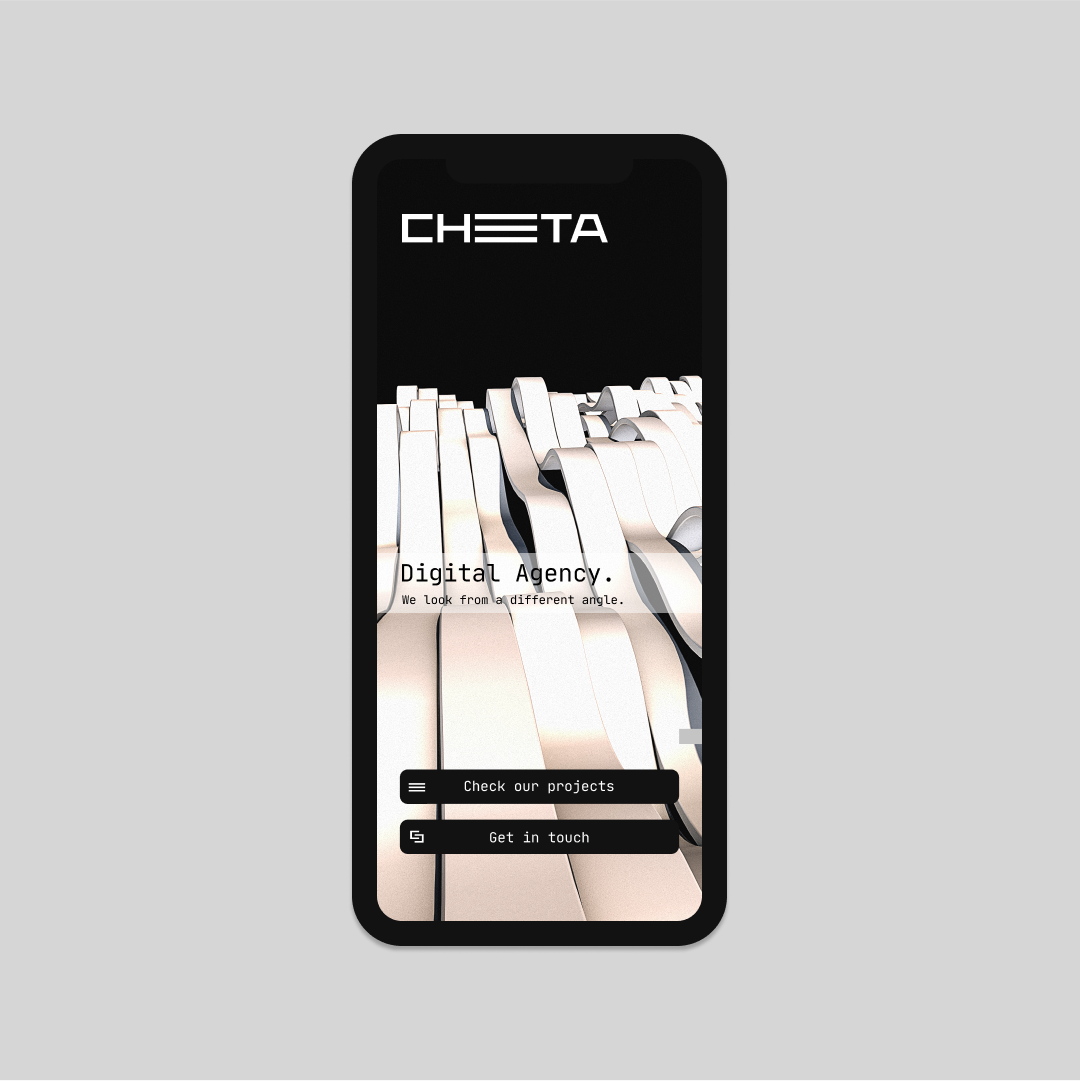
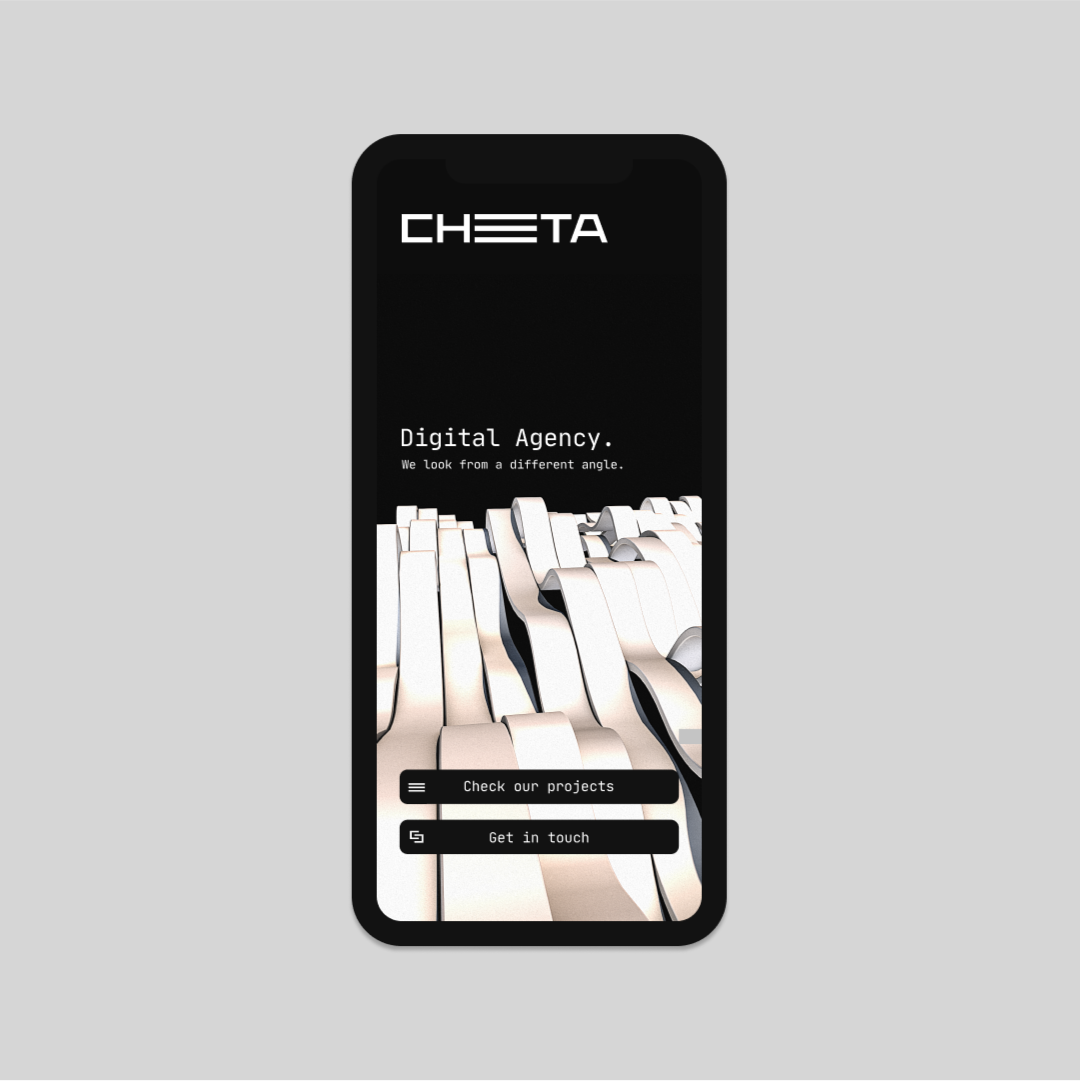
style fixes

Changed region(s): [[0.3361, 0.3358, 0.6722, 0.8548]]

diff --git a/src/components/design/DesignCase/cases/cheeta/Overview/Overview.vue b/src/components/design/DesignCase/cases/cheeta/Overview/Overview.vue
@@ -34,7 +34,7 @@
           </p>
           <p class="paragraph-text is-small">
             I researched many images of overviews and their habitats.
-            And one day it struck me - claw marks.
+            And one day it hit me - claw marks.
           </p>
           <p class="is-small">
             I combined to “E”s in one ligature and it reminded me chetah’s claw marks.
@@ -53,6 +53,7 @@
         <template slot="content">
           <p class="is-small">
             Cheeta is a modern digital agency.
+            <br/>
             It is a new player on the market of software
             development and digital services.
           </p>

diff --git a/src/components/design/DesignCase/cases/common/ImageGallery/ImageGallery.vue b/src/components/design/DesignCase/cases/common/ImageGallery/ImageGallery.vue
@@ -40,18 +40,31 @@ export default Vue.extend({
     flex-wrap: wrap;
 
     &-item {
-      padding-right: $building-unit-x3;
       width: 50%;
-      margin-bottom: $building-unit;
+      margin-top: $building-unit-x2;
+
+      &:nth-child(1) {
+        margin-top: 0;
+      }
+
+      &:nth-child(2) {
+        margin-top: 0;
+      }
 
       @media ($tablet) {
         width: 100%;
         padding-right: 0;
+        margin-top: 0;
+
+        &:not(:last-child) {
+          margin-bottom: $building-unit-x2;
+        }
       }
     }
 
     &-image {
       width: 100%;
+      float: left;
       height: auto;
     }
   }

diff --git a/src/components/design/DesignCase/cases/feix/Feix.vue b/src/components/design/DesignCase/cases/feix/Feix.vue
@@ -7,7 +7,7 @@
       <template slot="one"></template>
       <template slot="two">
         <ArrowLink
-          class="arrow-link feix-link smaller-pading">
+          class="arrow-link design-link smaller-padding">
           <template slot="text">
             brand identity for digital product
           </template>
@@ -111,11 +111,7 @@ export default Vue.extend({
   .feix {
     &-link {
       &.smaller-pading {
-        padding-left: $building-unit-x5;
-
-        @media ($tablet) {
-          padding-left: $building-unit-x3;
-        }
+        padding-left: $building-unit-x2;
       }
     }
   }

diff --git a/src/styles/layout/design-section.scss b/src/styles/layout/design-section.scss
@@ -14,17 +14,18 @@
     }
   }
 
+  &-link {
+    &.smaller-padding {
+      padding-left: $building-unit-x2;
+    }
+  }
+
   &-container {
-    padding: $building-unit-x4;
+    padding: $building-unit-x2;
     width: 100%;
     display: flex;
 
-    @media ($tablet) {
-      padding: $building-unit-x3;
-    }
-
     @media ($mobile) {
-      padding: $building-unit-x2;
       flex-direction: column;
     }
   }

diff --git a/src/components/design/DesignCase/cases/cheeta/Cheeta.vue b/src/components/design/DesignCase/cases/cheeta/Cheeta.vue
@@ -7,7 +7,7 @@
       <template slot="one"></template>
       <template slot="two">
         <ArrowLink
-          class="arrow-link"
+          class="arrow-link design-link smaller-padding"
           :link="Routes.CONTACT">
           <template slot="text">
             A brand identity for the digital agency

diff --git a/src/styles/layout/grid.scss b/src/styles/layout/grid.scss
@@ -24,7 +24,6 @@
         width: 100%;
         height: 100%;
         z-index: 2;
-        box-shadow: 2px 2px 10px rgba(0, 0, 0, 0.3);
 
         &.is-hidden {
           transform: translatex(-100%);
